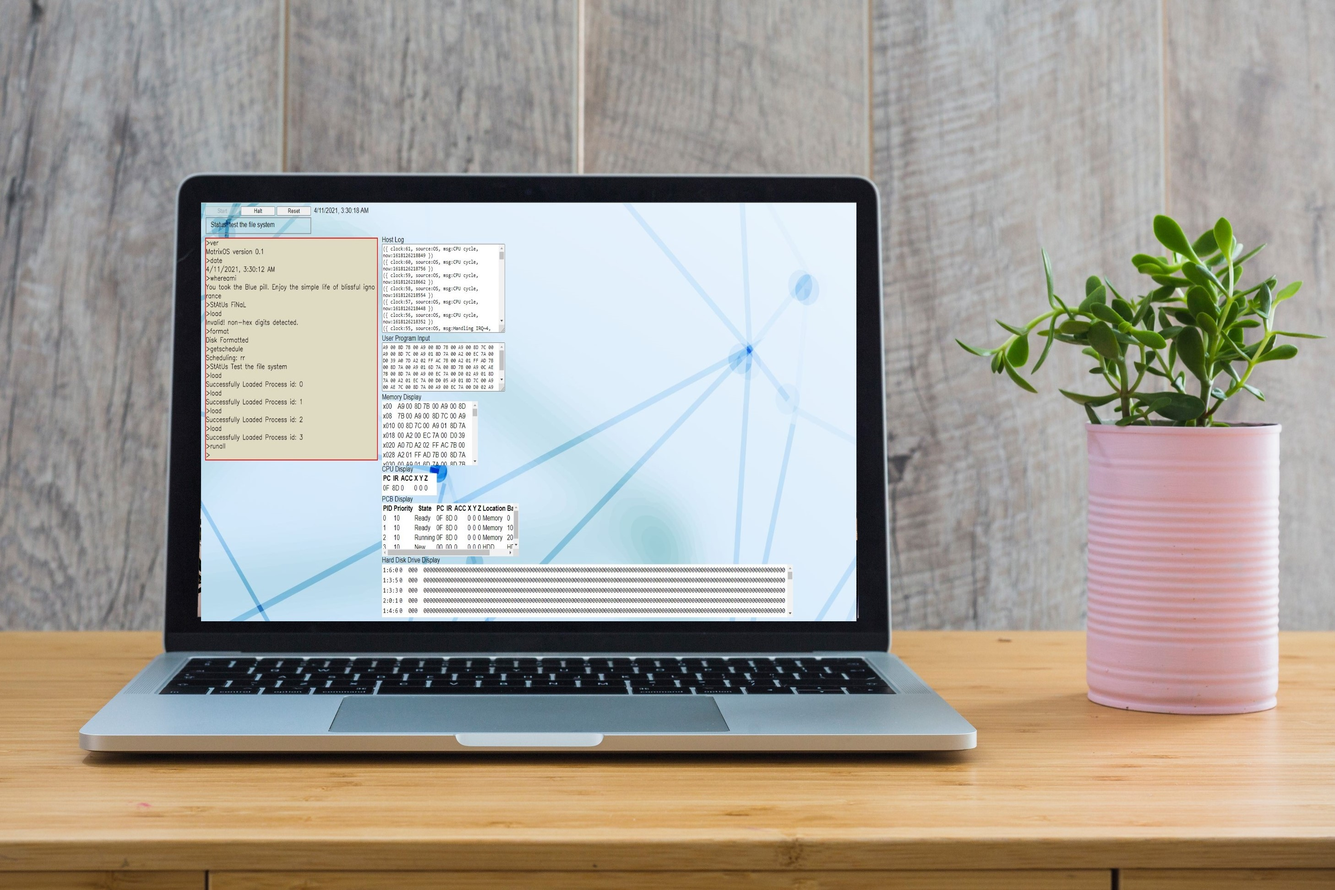
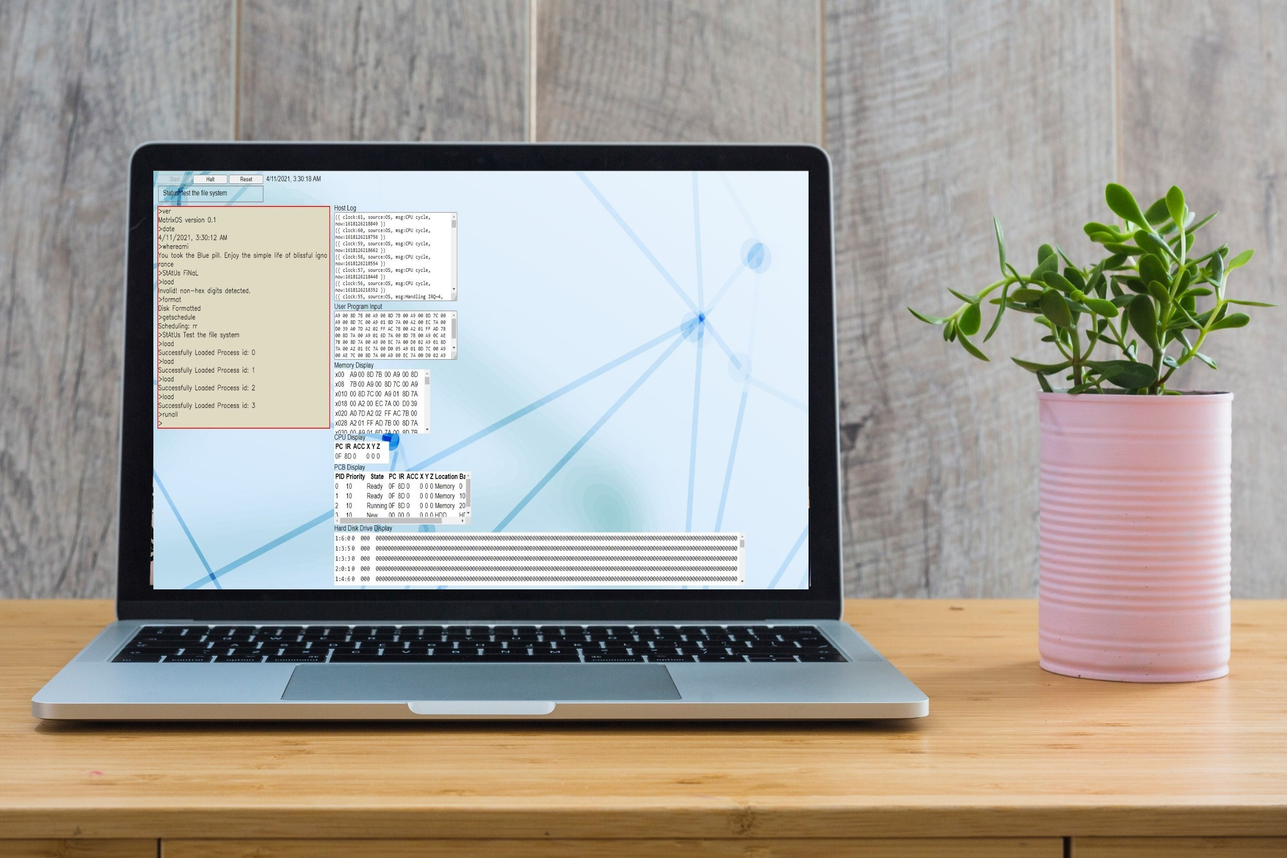
Add project image

diff --git a/index.html b/index.html
@@ -51,7 +51,7 @@
 						</div>
 						<div class="col-4 col-6-medium col-12-small">
 							<article class="box style2">
-								<a href="https://github.com/TawanScott/PrerequisiteValidator" class="image featured"><img src="images/project2.JPG" alt="" /></a>
+								<a href="https://github.com/TawanScott/PrerequisiteValidator" class="image featured"><img src="images/project2.jpg" alt="" /></a>
 								<h3><a href="https://github.com/TawanScott/PrerequisiteValidator">Prerequisite Validator</a></h3>
 								<p>Course registration planning tool for Marist computer science undergraduate students.</p>
 							</article>
